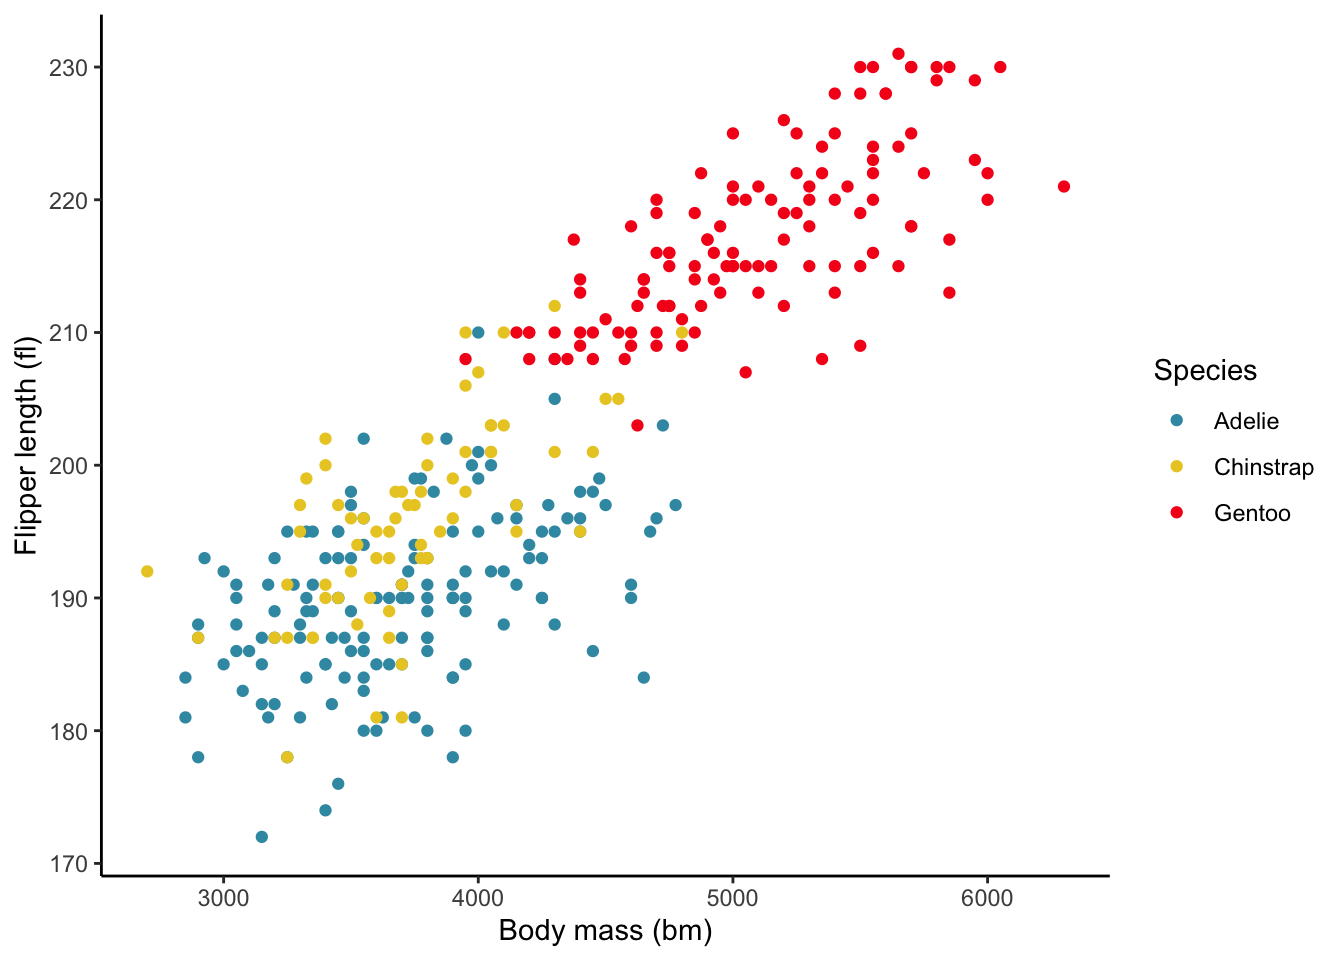
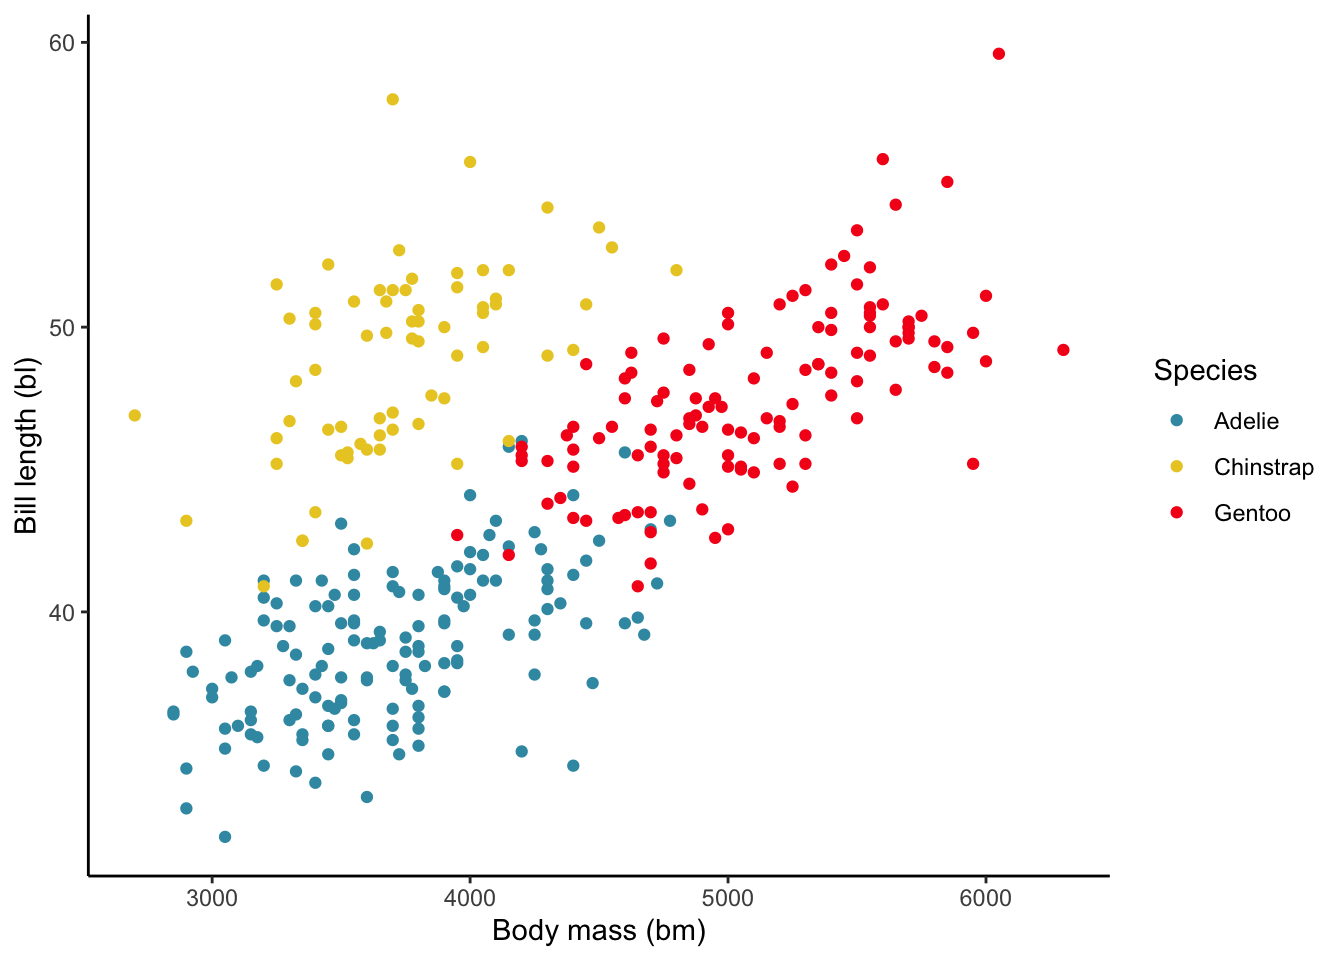
Resource section added for each QMD

diff --git a/Q5.html b/Q5.html
@@ -71,8 +71,6 @@ pre > code.sourceCode > span > a:first-child::before { text-decoration: underlin
 
 <script src="Q5_files/libs/kePrint-0.0.1/kePrint.js"></script>
 <link href="Q5_files/libs/lightable-0.0.1/lightable.css" rel="stylesheet">
-<link href="Q5_files/libs/bsTable-3.3.7/bootstrapTable.min.css" rel="stylesheet">
-<script src="Q5_files/libs/bsTable-3.3.7/bootstrapTable.js"></script>
 
   <script src="https://polyfill.io/v3/polyfill.min.js?features=es6"></script>
   <script src="https://cdn.jsdelivr.net/npm/mathjax@3/es5/tex-chtml-full.js" type="text/javascript"></script>
@@ -285,14 +283,14 @@ pre > code.sourceCode > span > a:first-child::before { text-decoration: underlin
 </div>
 </div>
 </section>
-<section id="plot-visualisation-of-bm-and-bl" class="level1" data-number="2">
-<h1 data-number="2"><span class="header-section-number">2</span> Plot visualisation of bm and bl</h1>
+<section id="plot-visualisation-of-bmfl-and-bl" class="level1" data-number="2">
+<h1 data-number="2"><span class="header-section-number">2</span> Plot visualisation of bm,fl and bl</h1>
 <div>
 <div class="sourceCode cell-code" id="cb4"><pre class="sourceCode r code-with-copy"><code class="sourceCode r"><span id="cb4-1"><a href="#cb4-1" aria-hidden="true" tabindex="-1"></a>pl1 <span class="ot">&lt;-</span> <span class="fu">ggplot</span>(<span class="at">data =</span> penguins_subset,<span class="fu">aes</span>(<span class="at">x =</span> bm,<span class="at">y =</span> fl)) <span class="sc">+</span> </span>
 <span id="cb4-2"><a href="#cb4-2" aria-hidden="true" tabindex="-1"></a>  <span class="fu">geom_point</span>() <span class="sc">+</span> <span class="fu">labs</span>(<span class="at">x =</span> <span class="st">"Body mass (bm)"</span>,<span class="at">y =</span> <span class="st">"Flipper length (fl)"</span>) <span class="sc">+</span> <span class="fu">theme_classic</span>() <span class="sc">+</span> <span class="fu">theme</span>(<span class="at">aspect.ratio=</span><span class="dv">1</span>)</span>
 <span id="cb4-3"><a href="#cb4-3" aria-hidden="true" tabindex="-1"></a></span>
-<span id="cb4-4"><a href="#cb4-4" aria-hidden="true" tabindex="-1"></a>pl2 <span class="ot">&lt;-</span> <span class="fu">ggplot</span>(<span class="at">data =</span> penguins_subset,<span class="fu">aes</span>(<span class="at">x =</span> bm,<span class="at">y =</span> fl)) <span class="sc">+</span> </span>
-<span id="cb4-5"><a href="#cb4-5" aria-hidden="true" tabindex="-1"></a>  <span class="fu">geom_point</span>(<span class="fu">aes</span>(<span class="at">color =</span> species)) <span class="sc">+</span> <span class="fu">labs</span>(<span class="at">x =</span> <span class="st">"Body mass (bm)"</span>,<span class="at">y =</span> <span class="st">"Flipper length (fl)"</span>,<span class="at">color =</span> <span class="st">"Species"</span>) <span class="sc">+</span> </span>
+<span id="cb4-4"><a href="#cb4-4" aria-hidden="true" tabindex="-1"></a>pl2 <span class="ot">&lt;-</span> <span class="fu">ggplot</span>(<span class="at">data =</span> penguins_subset,<span class="fu">aes</span>(<span class="at">x =</span> bm,<span class="at">y =</span> bl)) <span class="sc">+</span> </span>
+<span id="cb4-5"><a href="#cb4-5" aria-hidden="true" tabindex="-1"></a>  <span class="fu">geom_point</span>(<span class="fu">aes</span>(<span class="at">color =</span> species)) <span class="sc">+</span> <span class="fu">labs</span>(<span class="at">x =</span> <span class="st">"Body mass (bm)"</span>,<span class="at">y =</span> <span class="st">"Bill length (bl)"</span>,<span class="at">color =</span> <span class="st">"Species"</span>) <span class="sc">+</span> </span>
 <span id="cb4-6"><a href="#cb4-6" aria-hidden="true" tabindex="-1"></a>  <span class="fu">theme_classic</span>() <span class="sc">+</span> <span class="fu">scale_color_discrete_divergingx</span>(<span class="at">palette=</span><span class="st">"Zissou 1"</span>) </span>
 <span id="cb4-7"><a href="#cb4-7" aria-hidden="true" tabindex="-1"></a>pl1</span>
 <span id="cb4-8"><a href="#cb4-8" aria-hidden="true" tabindex="-1"></a>pl2</span></code><button title="Copy to Clipboard" class="code-copy-button"><i class="bi"></i></button></pre></div>
@@ -316,7 +314,7 @@ pre > code.sourceCode > span > a:first-child::before { text-decoration: underlin
 </div>
 </div>
 </div>
-<p></p><figcaption class="figure-caption">Figure&nbsp;1: Body mass Vs Flipper length</figcaption><p></p>
+<p></p><figcaption class="figure-caption">Figure&nbsp;1: Body mass Vs Flipper length Vs Bill length</figcaption><p></p>
 </figure>
 </div>
 </div>
@@ -326,29 +324,34 @@ pre > code.sourceCode > span > a:first-child::before { text-decoration: underlin
 <h1 data-number="3"><span class="header-section-number">3</span> Lineup of 20 plots</h1>
 <section id="plot-a" class="level2" data-number="3.1">
 <h2 data-number="3.1" class="anchored" data-anchor-id="plot-a"><span class="header-section-number">3.1</span> Plot A</h2>
-<p>Let us create the null plots for plot (a) in <a href="#fig-charts">Figure&nbsp;1</a> by permuting the body mass (bm) as shown by the code chunks below.</p>
+<p>Let us create the null plots for plot (a) in <a href="#fig-charts">Figure&nbsp;1</a> by permuting the residuals of the linear relationship between the var as shown by the code chunks below.</p>
 <div class="cell">
 <div class="sourceCode cell-code" id="cb5"><pre class="sourceCode r code-with-copy"><code class="sourceCode r"><span id="cb5-1"><a href="#cb5-1" aria-hidden="true" tabindex="-1"></a><span class="fu">set.seed</span>(<span class="dv">201349</span>)</span>
-<span id="cb5-2"><a href="#cb5-2" aria-hidden="true" tabindex="-1"></a><span class="fu">ggplot</span>(<span class="fu">lineup</span>(<span class="fu">null_permute</span>(<span class="st">'bm'</span>), penguins_subset), <span class="fu">aes</span>(<span class="at">x =</span> bm, <span class="at">y =</span> fl),<span class="at">n =</span><span class="dv">20</span>) <span class="sc">+</span></span>
-<span id="cb5-3"><a href="#cb5-3" aria-hidden="true" tabindex="-1"></a>  <span class="fu">geom_point</span>() <span class="sc">+</span></span>
-<span id="cb5-4"><a href="#cb5-4" aria-hidden="true" tabindex="-1"></a>  <span class="fu">facet_wrap</span>(<span class="sc">~</span> .sample) <span class="sc">+</span></span>
-<span id="cb5-5"><a href="#cb5-5" aria-hidden="true" tabindex="-1"></a>  <span class="fu">theme</span>(<span class="at">axis.text=</span><span class="fu">element_blank</span>(),</span>
-<span id="cb5-6"><a href="#cb5-6" aria-hidden="true" tabindex="-1"></a>        <span class="at">axis.title=</span><span class="fu">element_blank</span>())</span></code><button title="Copy to Clipboard" class="code-copy-button"><i class="bi"></i></button></pre></div>
+<span id="cb5-2"><a href="#cb5-2" aria-hidden="true" tabindex="-1"></a>lmodel <span class="ot">&lt;-</span> <span class="fu">lm</span>(<span class="at">formula =</span> bm<span class="sc">~</span>fl,<span class="at">data =</span>  penguins_subset)</span>
+<span id="cb5-3"><a href="#cb5-3" aria-hidden="true" tabindex="-1"></a><span class="fu">ggplot</span>(<span class="fu">lineup</span>(<span class="fu">null_lm</span>(bm<span class="sc">~</span>fl, <span class="at">method=</span><span class="st">"rotate"</span>),</span>
+<span id="cb5-4"><a href="#cb5-4" aria-hidden="true" tabindex="-1"></a>              <span class="fu">augment</span>(lmodel)),</span>
+<span id="cb5-5"><a href="#cb5-5" aria-hidden="true" tabindex="-1"></a>       <span class="fu">aes</span>(<span class="at">x=</span>fl, <span class="at">y=</span>.resid)) <span class="sc">+</span></span>
+<span id="cb5-6"><a href="#cb5-6" aria-hidden="true" tabindex="-1"></a>  <span class="fu">geom_point</span>() <span class="sc">+</span> <span class="fu">geom_smooth</span>(<span class="at">method =</span> lm,<span class="at">color =</span> <span class="st">'blue'</span>,<span class="at">se=</span><span class="cn">FALSE</span>) <span class="sc">+</span></span>
+<span id="cb5-7"><a href="#cb5-7" aria-hidden="true" tabindex="-1"></a>  <span class="fu">facet_wrap</span>(<span class="sc">~</span>.sample, <span class="at">ncol=</span><span class="dv">5</span>) <span class="sc">+</span></span>
+<span id="cb5-8"><a href="#cb5-8" aria-hidden="true" tabindex="-1"></a>  <span class="fu">theme_void</span>() <span class="sc">+</span></span>
+<span id="cb5-9"><a href="#cb5-9" aria-hidden="true" tabindex="-1"></a>  <span class="fu">theme</span>(<span class="at">axis.text =</span> <span class="fu">element_blank</span>(), </span>
+<span id="cb5-10"><a href="#cb5-10" aria-hidden="true" tabindex="-1"></a>        <span class="at">panel.border =</span> <span class="fu">element_rect</span>(<span class="at">fill=</span><span class="cn">NA</span>, <span class="at">colour=</span><span class="st">"black"</span>))</span></code><button title="Copy to Clipboard" class="code-copy-button"><i class="bi"></i></button></pre></div>
 <div class="cell-output-display">
 <div id="fig-nulla" class="quarto-figure quarto-figure-center anchored">
 <figure class="figure">
 <p><img src="Q5_files/figure-html/fig-nulla-1.png" class="img-fluid figure-img" width="672"></p>
-<figcaption class="figure-caption">Figure&nbsp;2: Null plots for bm vs fl</figcaption>
+<figcaption class="figure-caption">Figure&nbsp;2: Null plots for residuals of bm vs fl linear relationship</figcaption>
 </figure>
 </div>
 </div>
 </div>
-<p><a href="#fig-nulla">Figure&nbsp;2</a> illustrates the null plots for data points <strong>generated by permuting the value of body mass (bm)</strong>.</p>
+<p><a href="#fig-nulla">Figure&nbsp;2</a> illustrates the null plots for data points of residuals <strong>generated by randomising the residuals.</strong>.</p>
 <div class="alert alert-block alert-warning">
 <p>💡</p>
 <p>The null hypothesis and the alternative hypothesis are as follows:</p>
-<p><span class="math inline">\(H_o\)</span> = The variables body mass (bm) and flipper length (fl) have <strong>no association with one another.</strong> <span class="math inline">\(H_1\)</span> = Body mass (bm) and flipper length(fl) are related to each other.</p>
-<p>Method : Permutation of the body mass (bm) variable. 💡</p>
+<p><span class="math inline">\(H_o\)</span> = The variables body mass (bm) and flipper length (fl) have <strong>a weak linear relationship</strong>.<br>
+<span class="math inline">\(H_1\)</span> = Body mass (bm) and flipper length(fl) do not have a weak linearly relationship to each other.</p>
+<p>Method : Randomising the residuals using the null_lm function. 💡</p>
 </div>
 </section>
 <section id="plot-b" class="level2" data-number="3.2">
@@ -357,7 +360,7 @@ pre > code.sourceCode > span > a:first-child::before { text-decoration: underlin
 <div class="cell">
 <div class="sourceCode cell-code" id="cb6"><pre class="sourceCode r code-with-copy"><code class="sourceCode r"><span id="cb6-1"><a href="#cb6-1" aria-hidden="true" tabindex="-1"></a><span class="fu">set.seed</span>(<span class="dv">201344</span>)</span>
 <span id="cb6-2"><a href="#cb6-2" aria-hidden="true" tabindex="-1"></a><span class="fu">ggplot</span>(<span class="fu">lineup</span>(<span class="fu">null_permute</span>(<span class="st">"species"</span>), penguins_subset, <span class="at">n=</span><span class="dv">20</span>),</span>
-<span id="cb6-3"><a href="#cb6-3" aria-hidden="true" tabindex="-1"></a>       <span class="fu">aes</span>(<span class="at">x=</span>bm, <span class="at">y=</span>fl, <span class="at">colour=</span>species)) <span class="sc">+</span></span>
+<span id="cb6-3"><a href="#cb6-3" aria-hidden="true" tabindex="-1"></a>       <span class="fu">aes</span>(<span class="at">x=</span>bm, <span class="at">y=</span>bl, <span class="at">colour=</span>species)) <span class="sc">+</span></span>
 <span id="cb6-4"><a href="#cb6-4" aria-hidden="true" tabindex="-1"></a>  <span class="fu">geom_point</span>(<span class="at">alpha=</span><span class="fl">0.7</span>) <span class="sc">+</span></span>
 <span id="cb6-5"><a href="#cb6-5" aria-hidden="true" tabindex="-1"></a>  <span class="fu">facet_wrap</span>(<span class="sc">~</span>.sample, <span class="at">ncol=</span><span class="dv">5</span>) <span class="sc">+</span></span>
 <span id="cb6-6"><a href="#cb6-6" aria-hidden="true" tabindex="-1"></a>  colorspace<span class="sc">::</span><span class="fu">scale_color_discrete_divergingx</span>(<span class="at">palette=</span><span class="st">"Temps"</span>) <span class="sc">+</span></span>
@@ -371,7 +374,7 @@ pre > code.sourceCode > span > a:first-child::before { text-decoration: underlin
 <div id="fig-nullb" class="quarto-figure quarto-figure-center anchored">
 <figure class="figure">
 <p><img src="Q5_files/figure-html/fig-nullb-1.png" class="img-fluid figure-img" width="672"></p>
-<figcaption class="figure-caption">Figure&nbsp;3: Null plots for bm vs fl colored by different species</figcaption>
+<figcaption class="figure-caption">Figure&nbsp;3: Null plots for bm vs bl colored by different species</figcaption>
 </figure>
 </div>
 </div>
@@ -379,8 +382,9 @@ pre > code.sourceCode > span > a:first-child::before { text-decoration: underlin
 <div class="alert alert-block alert-warning">
 <p>💡</p>
 <p>The null hypothesis and the alternative hypothesis are as follows:</p>
-<p><span class="math inline">\(H_o\)</span> = The variables body mass (bm) and flipper length (fl) have <strong>no association with the type of penguin species.</strong> <span class="math inline">\(H_1\)</span> = Body mass (bm) and flipper length(fl) are related are dependent upon the particular type of species.</p>
-<p>Method : Permutation of the species variable. 💡</p>
+<p><span class="math inline">\(H_o\)</span> = The variables body mass (bm) and flipper length (fl) have <strong>no association with the type of penguin species</strong>.<br>
+<span class="math inline">\(H_1\)</span> = Body mass (bm) and flipper length(fl) are related are dependent upon the particular type of species.</p>
+<p>Method : Permutation of the “species” variable using the null_permute function. 💡</p>
 </div>
 </section>
 </section>
@@ -389,22 +393,21 @@ pre > code.sourceCode > span > a:first-child::before { text-decoration: underlin
 <section id="plot-a-1" class="level2" data-number="4.1">
 <h2 data-number="4.1" class="anchored" data-anchor-id="plot-a-1"><span class="header-section-number">4.1</span> Plot A</h2>
 <p>Based on the reports of 8 cases, following observations were recorded:</p>
-<p>A total of 7 of the 8 observations recorded that they observed plot 3 to be the most unique plot in the lineup while one observation recorded plot 14 as a unique plot.</p>
-<p>Some of the reasons outlined for those who chose plot 3 are follows:</p>
+<p>A total of 2 out of the 8 observations chose plot 18 as the most unique plot which is the actual plot.</p>
+<p>Some of the reasons outlined for those who chose plot 18 are follows:</p>
 <ul>
 <li>Less noise in the data.</li>
 <li>Looks like a linear relationship.</li>
-<li>Less variation in the data.</li>
-<li>Less spread out data compared to the rest of the plots.</li>
+<li>Better homoscedacity.</li>
 </ul>
-<p>One subject however chose plot 14 and the reason was attributed to the extreme presence of outlier values which is not the case for the rest of the plots.</p>
+<p>6 subjects however chose the remaining plots as there was no clear distinctive pattern in the scatterplot of the residuals.</p>
 <p>Based on the above statistics, the P-value maybe calculated through the code-chunk below.</p>
 <div class="cell">
-<div class="sourceCode cell-code" id="cb7"><pre class="sourceCode r code-with-copy"><code class="sourceCode r"><span id="cb7-1"><a href="#cb7-1" aria-hidden="true" tabindex="-1"></a>p_val <span class="ot">&lt;-</span> <span class="fu">sum</span>(<span class="fu">dbinom</span>(<span class="dv">7</span><span class="sc">:</span><span class="dv">8</span>,<span class="dv">8</span>,<span class="dv">1</span><span class="sc">/</span><span class="dv">20</span>))</span></code><button title="Copy to Clipboard" class="code-copy-button"><i class="bi"></i></button></pre></div>
+<div class="sourceCode cell-code" id="cb7"><pre class="sourceCode r code-with-copy"><code class="sourceCode r"><span id="cb7-1"><a href="#cb7-1" aria-hidden="true" tabindex="-1"></a>p_val <span class="ot">&lt;-</span> <span class="fu">sum</span>(<span class="fu">dbinom</span>(<span class="dv">2</span><span class="sc">:</span><span class="dv">8</span>,<span class="dv">8</span>,<span class="dv">1</span><span class="sc">/</span><span class="dv">20</span>))</span></code><button title="Copy to Clipboard" class="code-copy-button"><i class="bi"></i></button></pre></div>
 </div>
 <div class="alert alert-block alert-warning">
 <p>💡</p>
-<p>Based on the statistics observed by the reports of the 8 test subjects, the P-value of 7 or more people choosing plot 3 as the most unique plot in the line up is <strong>5.9765625^{-9}</strong>. Such a low score indicates that there is overwhelming evidence to reject the null hypothesis in favor of the alternate hypothesis <strong>which states that the variables of body mass (bm) and flipper length (fl) are indeed related to each other</strong>. 💡</p>
+<p>Based on the statistics observed by the reports of the 8 test subjects, the P-value of 2 or more people choosing plot 18 as the most unique plot in the line up is <strong>0.0572447</strong>. Such a value of score indicates that there is <strong>not enough evidence to reject the null hypothesis</strong> in favor of the alternate hypothesis <strong>which states that the variables of body mass (bm) and flipper length (fl) are weakly related to each other in a linear fashion</strong>. 💡</p>
 </div>
 </section>
 <section id="plot-b-1" class="level2" data-number="4.2">
@@ -413,8 +416,8 @@ pre > code.sourceCode > span > a:first-child::before { text-decoration: underlin
 <p>All of the 8 observations recorded that they observed plot 10 to be the most unique plot in the lineup.</p>
 <p>Some of the reasons outlined for those who chose plot 10 are as follows:</p>
 <ul>
-<li>Clear band of 3 different colors observed.</li>
-<li>Less intermixing of the different colors.</li>
+<li>Less dispersion in the residuals.</li>
+<li>Even distribution across the blue ideal line.</li>
 <li>A definitive pattern in the colors observed.</li>
 <li>Concentration of red color observed at the top end.</li>
 </ul>
@@ -426,6 +429,19 @@ pre > code.sourceCode > span > a:first-child::before { text-decoration: underlin
 <p>Based on the statistics observed by the reports of the 8 test subjects, the P-value of 8 choosing plot 10 as the most unique plot in the line up is <strong>3.90625^{-11}</strong>. Such a low score indicates that there is overwhelming evidence to reject the null hypothesis in favor of the alternate hypothesis <strong>which states that the variables of body mass (bm) and flipper length (fl) are indeed related to the type of penguin species</strong>. 💡</p>
 </div>
 </section>
+</section>
+<section id="resources" class="level1" data-number="5">
+<h1 data-number="5"><span class="header-section-number">5</span> Resources</h1>
+<p>The above analysis was undertaken with the help of the following software and packages:</p>
+<ol type="1">
+<li><strong>RStudio</strong>: Integrated Development for R. RStudio, PBC, Boston, MA URL http://www.rstudio.com/.</li>
+<li><strong>ggplot2</strong>: H. Wickham. ggplot2: Elegant Graphics for Data Analysis. Springer-Verlag New York, 2016.</li>
+<li><strong>tidyverse</strong>: Wickham H, Averick M, Bryan J, Chang W, McGowan LD, François R, Grolemund G, Hayes A, Henry L, Hester J, Kuhn M, Pedersen TL, Miller E, Bache SM, Müller K, Ooms J, Robinson D, Seidel DP, Spinu V, Takahashi K, Vaughan D, Wilke C, Woo K, Yutani H (2019). “Welcome to the tidyverse.” <em>Journal of Open Source Software</em>, <em>4</em>(43), 1686. doi:10.21105/joss.01686 <a href="https://doi.org/10.21105/joss.01686" class="uri">https://doi.org/10.21105/joss.01686</a>.</li>
+<li><strong>knitr</strong>: Yihui Xie (2014) knitr: A Comprehensive Tool for Reproducible Research in R. In Victoria Stodden, Friedrich Leisch and Roger D. Peng, editors, Implementing Reproducible Computational Research. Chapman and Hall/CRC. ISBN 978-1466561595.</li>
+<li><strong>rmarkdown</strong>: Allaire J, Xie Y, Dervieux C, McPherson J, Luraschi J, Ushey K, Atkins A, Wickham H, Cheng J, Chang W, Iannone R (2023). <em>rmarkdown: Dynamic Documents for R</em>. R package version 2.23, <a href="https://github.com/rstudio/rmarkdown" class="uri">https://github.com/rstudio/rmarkdown</a>.</li>
+<li><strong>kableExtra</strong>: Zhu H (2023). <em>kableExtra: Construct Complex Table with ‘kable’ and Pipe Syntax</em>. http://haozhu233.github.io/kableExtra</li>
+<li><strong>visdat</strong>: Tierney N (2017). “visdat: Visualising Whole Data Frames.” <em>JOSS</em>, <em>2</em>(16), 355. doi:10.21105/joss.00355 <a href="https://doi.org/10.21105/joss.00355" class="uri">https://doi.org/10.21105/joss.00355</a>, <a href="http://dx.doi.org/10.21105/joss.00355" class="uri">http://dx.doi.org/10.21105/joss.00355</a>.</li>
+</ol>
 </section>
 
 </main>

diff --git a/Q1.html b/Q1.html
@@ -166,7 +166,7 @@ pre > code.sourceCode > span > a:first-child::before { text-decoration: underlin
 <li>If possible, look at the history of some interesting CEOs. Maybe there are some that stand out (e.g.&nbsp;because they always left for legal reasons).</li>
 </ol>
 <div class="alert alert-info">
-<p>🎯 Setting up specific research questions and addressing key strategies to answer such questions generally forms a part of the <b> Initial Data Analysis (IDA) </b>. 🎯</p>
+<p>🎯 Setting up specific research questions and addressing key strategies to answer such questions generally forms a part of <b> Confirmatory Data Analysis (CDA) </b>. 🎯</p>
 </div>
 </section>
 <section id="reason-for-ceo-departure" class="level1">

diff --git a/Q2.html b/Q2.html
@@ -71,8 +71,6 @@ pre > code.sourceCode > span > a:first-child::before { text-decoration: underlin
 
 <script src="Q2_files/libs/kePrint-0.0.1/kePrint.js"></script>
 <link href="Q2_files/libs/lightable-0.0.1/lightable.css" rel="stylesheet">
-<link href="Q2_files/libs/bsTable-3.3.7/bootstrapTable.min.css" rel="stylesheet">
-<script src="Q2_files/libs/bsTable-3.3.7/bootstrapTable.js"></script>
 
 
 </head>
